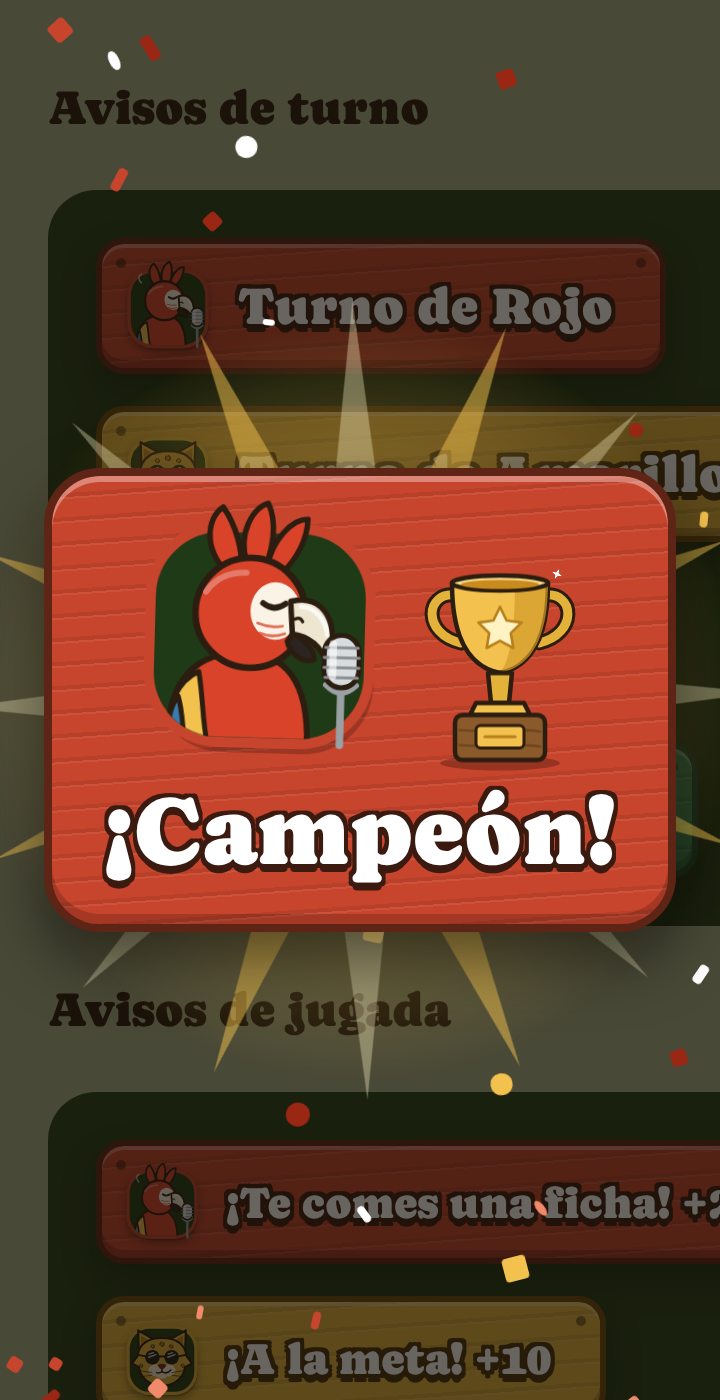
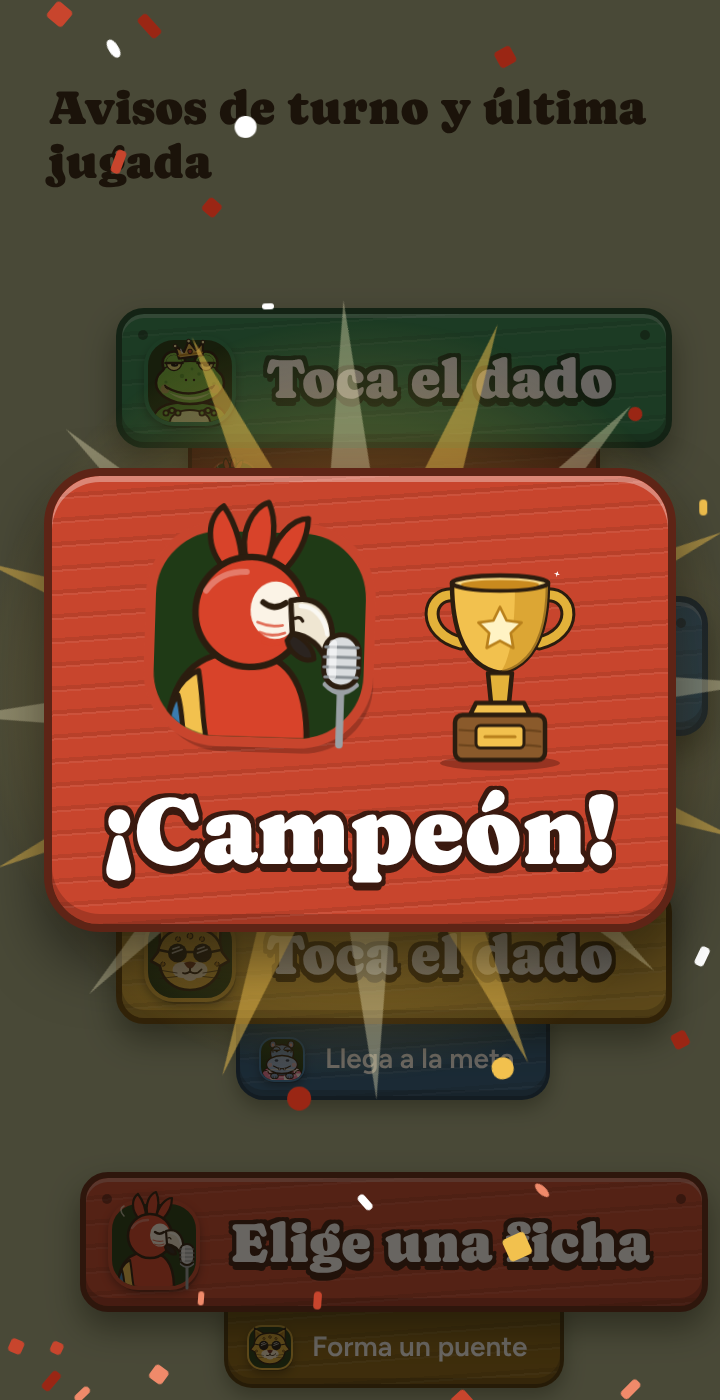
docs: redesign turn alerts with the last play tab

diff --git a/docs/design/avisos-y-campeon/ejemplo.html b/docs/design/avisos-y-campeon/ejemplo.html
@@ -3,36 +3,31 @@
 <head>
 <meta charset="utf-8">
 <meta name="viewport" content="width=device-width, initial-scale=1">
-<title>Alertas y campeón · Parchís de la jungla</title>
-<link rel="stylesheet" href="estilos.css">
+<title>Avisos y campeón · Parchís de la jungla</title>
+<link rel="stylesheet" href="alertas.css">
+<link rel="stylesheet" href="campeon.css">
 <script src="../mascotas/componentes/fichas-animales.js"></script>
 <script src="../mascotas/componentes/mascotas-animadas.js"></script>
 <script src="componentes/ganador-fx.js"></script>
 <script src="componentes/campeon.js"></script>
+<script src="alertas.js"></script>
 <style>
   body { margin: 0; min-height: 100vh; background: #a9b18c; font-family: system-ui, sans-serif; color: #2b1d0f; }
   main { max-width: 900px; margin: 0 auto; padding: 40px 24px; display: grid; gap: 28px; }
   h2 { font-family: "Caprasimo", serif; font-weight: 400; margin: 0; }
-  .lista { display: flex; flex-direction: column; align-items: flex-start; gap: 16px; padding: 24px; border-radius: 24px; background: #264018; }
+  .avisos { display: flex; flex-direction: column; align-items: center; gap: 36px; padding: 32px 16px; }
   .botones { display: flex; flex-wrap: wrap; gap: 10px; }
   button { font: 600 15px system-ui, sans-serif; padding: 10px 18px; border-radius: 999px; border: 0; background: #fff8ea; cursor: pointer; }
 </style>
 </head>
 <body>
 <main>
-  <h2>Avisos de turno</h2>
-  <div class="lista">
-    <div class="pj-alerta pj-rojo"><ficha-animal animal="loro" variant="b"></ficha-animal><span class="pj-alerta__texto">Turno de Rojo</span></div>
-    <div class="pj-alerta pj-amarillo"><ficha-animal animal="jaguar" variant="e"></ficha-animal><span class="pj-alerta__texto">Turno de Amarillo</span></div>
-    <div class="pj-alerta pj-azul"><ficha-animal animal="hipo" variant="g"></ficha-animal><span class="pj-alerta__texto">Turno de Azul</span></div>
-    <div class="pj-alerta pj-verde"><ficha-animal animal="rana" variant="a"></ficha-animal><span class="pj-alerta__texto">Turno de Verde</span></div>
-  </div>
-  <h2>Avisos de jugada</h2>
-  <div class="lista">
-    <div class="pj-alerta pj-rojo pj-alerta--pequena"><ficha-animal animal="loro" variant="b"></ficha-animal><span class="pj-alerta__texto">¡Te comes una ficha! +20</span></div>
-    <div class="pj-alerta pj-amarillo pj-alerta--pequena"><ficha-animal animal="jaguar" variant="e"></ficha-animal><span class="pj-alerta__texto">¡A la meta! +10</span></div>
-    <div class="pj-alerta pj-azul pj-alerta--pequena"><ficha-animal animal="hipo" variant="g"></ficha-animal><span class="pj-alerta__texto">¡Sacas un 6! Repites</span></div>
-    <div class="pj-alerta pj-verde pj-alerta--pequena"><ficha-animal animal="rana" variant="a"></ficha-animal><span class="pj-alerta__texto">Puente formado</span></div>
+  <h2>Avisos de turno y última jugada</h2>
+  <div class="avisos" id="avisos">
+    <div id="a0"></div>
+    <div id="a1"></div>
+    <div id="a2"></div>
+    <div id="a3"></div>
   </div>
   <h2>Pantalla de campeón</h2>
   <div class="botones">
@@ -43,6 +38,12 @@
   </div>
   <p>Pulsa en la capa oscura para cerrarla.</p>
 </main>
-<script>document.addEventListener('click', e => { if (e.target.classList && e.target.classList.contains('pj-campeon')) ocultarCampeon(); });</script>
+<script>
+pintarAviso(document.getElementById('a0'), { turno: 'verde', accion: 'Toca el dado', ultimo: 'rojo', ultimaJugada: 'Saca una ficha de casa' });
+pintarAviso(document.getElementById('a1'), { turno: 'azul', accion: 'Elige una ficha', ultimo: 'verde', ultimaJugada: 'Se come una ficha de Azul' });
+pintarAviso(document.getElementById('a2'), { turno: 'amarillo', accion: 'Toca el dado', ultimo: 'azul', ultimaJugada: 'Llega a la meta' });
+pintarAviso(document.getElementById('a3'), { turno: 'rojo', accion: 'Elige una ficha', ultimo: 'amarillo', ultimaJugada: 'Forma un puente' });
+document.addEventListener('click', e => { if (e.target.classList && e.target.classList.contains('pj-campeon')) ocultarCampeon(); });
+</script>
 </body>
 </html>

diff --git a/docs/design/avisos-y-campeon/alertas.css b/docs/design/avisos-y-campeon/alertas.css
@@ -1,0 +1,37 @@
+/* Aviso de turno + última jugada (14b) · Parchís de la jungla */
+@import url("https://fonts.googleapis.com/css2?family=Caprasimo&family=Figtree:wght@600&display=swap");
+.pj-aviso { display: inline-flex; flex-direction: column; align-items: center; }
+.pj-turno {
+  --c: #2e8b57; --borde: #17492d; --sombra: #12381f;
+  position: relative; z-index: 1; display: flex; align-items: center; gap: 12px;
+  padding: 6px 26px 6px 8px; border-radius: 14px;
+  background: var(--c) repeating-linear-gradient(176deg, rgba(0,0,0,0) 0 9px, rgba(0,0,0,.08) 9px 11px, rgba(255,255,255,.07) 11px 12px);
+  border: 3px solid var(--borde);
+  box-shadow: inset 0 2px 0 rgba(255,255,255,.3), inset 0 -4px 0 rgba(0,0,0,.2), 0 8px 16px rgba(10,20,4,.45);
+}
+.pj-turno::before, .pj-turno::after { content: ""; position: absolute; top: 8px; width: 5px; height: 5px; border-radius: 50%; background: rgba(0,0,0,.4); }
+.pj-turno::before { left: 8px; } .pj-turno::after { right: 8px; }
+.pj-turno ficha-animal { width: 52px; height: 52px; flex: none; filter: drop-shadow(0 2px 2px rgba(0,0,0,.35)); }
+.pj-turno__accion {
+  font-family: "Caprasimo", serif; font-size: 28px; line-height: 1.1; color: #fff; white-space: nowrap;
+  text-shadow: 2px 2px 0 var(--sombra), -2px 2px 0 var(--sombra), 2px -2px 0 var(--sombra), -2px -2px 0 var(--sombra), 2px 0 0 var(--sombra), -2px 0 0 var(--sombra), 0 2px 0 var(--sombra), 0 -2px 0 var(--sombra), 0 4px 0 var(--sombra);
+}
+.pj-jugada {
+  --p: #8e2f1f; --pb: #4a1a10;
+  display: inline-flex; align-items: center; gap: 8px; margin-top: -6px;
+  padding: 10px 16px 6px 8px; border-radius: 0 0 14px 14px;
+  background: var(--p) repeating-linear-gradient(176deg, rgba(0,0,0,0) 0 9px, rgba(0,0,0,.08) 9px 11px, rgba(255,255,255,.07) 11px 12px);
+  border: 2px solid var(--pb); border-top: 0;
+  box-shadow: inset 0 -3px 0 rgba(0,0,0,.18), 0 4px 10px rgba(10,20,4,.35);
+  font-family: "Figtree", system-ui, sans-serif; font-weight: 600; font-size: 14px; color: #fff; white-space: nowrap;
+}
+.pj-jugada ficha-animal { width: 26px; height: 26px; flex: none; filter: drop-shadow(0 2px 2px rgba(0,0,0,.35)); }
+/* Colores: .pj-turno.pj-<equipo> (turno actual) · .pj-jugada.pj-<equipo> (quien hizo la última jugada) */
+.pj-turno.pj-verde    { --c: #2e8b57; --borde: #17492d; --sombra: #12381f; }
+.pj-turno.pj-rojo     { --c: #c8452d; --borde: #5e2416; --sombra: #3b1a10; }
+.pj-turno.pj-azul     { --c: #3a7cb0; --borde: #1f4566; --sombra: #173450; }
+.pj-turno.pj-amarillo { --c: #e3b23a; --borde: #6b4a0c; --sombra: #4a320a; }
+.pj-jugada.pj-verde    { --p: #1f6440; --pb: #0f3a24; }
+.pj-jugada.pj-rojo     { --p: #8e2f1f; --pb: #4a1a10; }
+.pj-jugada.pj-azul     { --p: #2a5d86; --pb: #163552; }
+.pj-jugada.pj-amarillo { --p: #8a6514; --pb: #4a3408; }

diff --git a/docs/design/avisos-y-campeon/campeon.css b/docs/design/avisos-y-campeon/campeon.css
@@ -1,6 +1,6 @@
-/* Alertas y pantalla de campeón · Parchís de la jungla */
+/* Pantalla de campeón · Parchís de la jungla */
 @import url("https://fonts.googleapis.com/css2?family=Caprasimo&display=swap");
-.pj-alerta, .pj-campeon__tablon {
+.pj-campeon__tablon {
   --c: #e3b23a; --borde: #6b4a0c; --sombra: #4a320a;
   position: relative; display: inline-flex; align-items: center; gap: 12px;
   padding: 8px 24px 8px 10px; border-radius: 14px;
@@ -8,20 +8,14 @@
   border: 3px solid var(--borde);
   box-shadow: inset 0 2px 0 rgba(255,255,255,.3), inset 0 -4px 0 rgba(0,0,0,.2), 0 8px 16px rgba(10,20,4,.45);
 }
-.pj-alerta::before, .pj-alerta::after { content: ""; position: absolute; top: 7px; width: 5px; height: 5px; border-radius: 50%; background: rgba(0,0,0,.4); }
-.pj-alerta::before { left: 7px; } .pj-alerta::after { right: 7px; }
-.pj-alerta ficha-animal { width: 46px; height: 46px; flex: none; filter: drop-shadow(0 2px 2px rgba(0,0,0,.35)); }
-.pj-alerta__texto, .pj-campeon__titulo {
+.pj-campeon__titulo {
   font-family: "Caprasimo", serif; color: #fff; white-space: nowrap;
   text-shadow: 2px 2px 0 var(--sombra), -2px 2px 0 var(--sombra), 2px -2px 0 var(--sombra), -2px -2px 0 var(--sombra), 2px 0 0 var(--sombra), -2px 0 0 var(--sombra), 0 2px 0 var(--sombra), 0 -2px 0 var(--sombra), 0 4px 0 var(--sombra);
 }
-.pj-alerta__texto { font-size: 26px; }
-.pj-alerta--pequena .pj-alerta__texto { font-size: 22px; }
-.pj-alerta--pequena ficha-animal { width: 40px; height: 40px; }
-.pj-amarillo { --c: #e3b23a; --borde: #6b4a0c; --sombra: #4a320a; }
-.pj-rojo     { --c: #c8452d; --borde: #5e2416; --sombra: #3b1a10; }
-.pj-azul     { --c: #3a7cb0; --borde: #1f4566; --sombra: #173450; }
-.pj-verde    { --c: #2e8b57; --borde: #17492d; --sombra: #12381f; }
+.pj-campeon__tablon.pj-amarillo { --c: #e3b23a; --borde: #6b4a0c; --sombra: #4a320a; }
+.pj-campeon__tablon.pj-rojo     { --c: #c8452d; --borde: #5e2416; --sombra: #3b1a10; }
+.pj-campeon__tablon.pj-azul     { --c: #3a7cb0; --borde: #1f4566; --sombra: #173450; }
+.pj-campeon__tablon.pj-verde    { --c: #2e8b57; --borde: #17492d; --sombra: #12381f; }
 
 /* Pantalla de campeón */
 .pj-campeon { position: fixed; inset: 0; z-index: 100; display: grid; place-items: center; background: rgba(18,14,8,.64); }

diff --git a/docs/design/avisos-y-campeon/alertas.js b/docs/design/avisos-y-campeon/alertas.js
@@ -1,0 +1,10 @@
+/* pintarAviso(contenedor, { turno, accion, ultimo?, ultimaJugada? }) */
+(function () {
+  const M = { verde: ['rana', 'a'], rojo: ['loro', 'b'], azul: ['hipo', 'g'], amarillo: ['jaguar', 'e'] };
+  const f = (eq) => `<ficha-animal animal="${M[eq][0]}" variant="${M[eq][1]}"></ficha-animal>`;
+  window.pintarAviso = function (el, o) {
+    let h = `<div class="pj-aviso" role="status" aria-live="polite"><div class="pj-turno pj-${o.turno}">${f(o.turno)}<span class="pj-turno__accion">${o.accion}</span></div>`;
+    if (o.ultimo && o.ultimaJugada) h += `<div class="pj-jugada pj-${o.ultimo}">${f(o.ultimo)}<span>${o.ultimaJugada}</span></div>`;
+    el.innerHTML = h + '</div>';
+  };
+})();

diff --git a/docs/design/avisos-y-campeon/README.md b/docs/design/avisos-y-campeon/README.md
@@ -1,26 +1,38 @@
 # Avisos y pantalla de campeón
 
-Carteles de madera pintada del color de cada equipo, con su mascota, y la pantalla del equipo que gana. Exportado de Claude Design. Sustituye al cartel anterior, que solo tenía un círculo de color.
+Aviso de turno con la última jugada colgada debajo, y pantalla del equipo que gana. Exportado de Claude Design.
 
 - `ejemplo.html`: los avisos y la pantalla de campeón funcionando. Usa los componentes de [`../mascotas/`](../mascotas/), así que se abre desde esta carpeta, dentro de `docs/design/`.
-- `estilos.css`: el tablón pintado de los avisos y del campeón, y los colores de cada equipo.
+- `alertas.css` y `alertas.js`: el aviso de turno y la última jugada; `pintarAviso(contenedor, { turno, accion, ultimo?, ultimaJugada? })`.
+- `campeon.css`: el tablón y la capa de la pantalla de campeón.
 - `componentes/ganador-fx.js`: trofeo con brillos, confeti y rayos de sol (`<ganador-trofeo>`, `<ganador-confeti>`, `<ganador-rayos>`).
 - `componentes/campeon.js`: `mostrarCampeon(equipo, texto?)` y `ocultarCampeon()`.
-- `capturas/`: avisos de turno, avisos de jugada y pantalla de campeón en escritorio y en móvil.
+- `capturas/`: los avisos, y la pantalla de campeón en escritorio y en móvil.
 
 ## Avisos
 
-Tablón del color del equipo con la ficha de su mascota y el texto en Caprasimo, blanco con contorno oscuro. Hay dos niveles, como define SPEC 006 al separar estado y eventos:
+Dos niveles, como define SPEC 006 al separar estado y eventos. **El cartel dice qué hacer; la pestaña, qué pasó y quién lo hizo.**
 
-- **De turno, primer nivel:** el cartel de turno, con el **estado** actual: «Turno de Rojo», el valor del dado y la instrucción. Un premio pendiente es estado, así que «Usa tu +20» va aquí.
-- **De jugada, segundo nivel** (`pj-alerta--pequena`): los **eventos** de la última acción, por ejemplo «¡Te comes una ficha! +20», «¡A la meta! +10» o «¡Sacas un 6! Repites». Es el aspecto de la línea de última jugada: van debajo del cartel de turno y nunca lo sustituyen.
+- **Cartel de turno, primer nivel:** tablón del color del equipo en turno, con su mascota a la izquierda y solo la acción, en Caprasimo: «Toca el dado», «Elige una ficha». Sin «Turno de…»: el turno se reconoce por el color y la mascota.
+- **Última jugada, segundo nivel:** pestaña más pequeña colgada debajo del cartel, en el color oscurecido de quien hizo la jugada y con su mascota, en Figtree: «Saca una ficha de casa», «Llega a la meta». No nombra a quien actúa, porque lo dice su mascota; sí al equipo afectado («Se come una ficha de Azul»).
 
-En el diseño, los avisos de jugada usan el mismo tablón que el de turno, solo más pequeño. Al implementarlos, el spec debe hacer que se distingan claramente como segundo nivel.
+| Equipo | Mascota | Cartel | Pestaña |
+|---|---|---|---|
+| Amarillo | Jaguar `e` | `#e3b23a` | `#8a6514` |
+| Rojo | Loro `b` | `#c8452d` | `#8e2f1f` |
+| Azul | Hipopótamo `g` | `#3a7cb0` | `#2a5d86` |
+| Verde | Rana `a` | `#2e8b57` | `#1f6440` |
 
-«Puente formado» no tiene evento en el motor: el motor no avisa al formar barrera, y la aplicación no puede deducirlo por su cuenta (RNF-005 de SPEC 006). Queda como posible evento nuevo para un spec del motor.
+El texto blanco de la pestaña tiene un contraste de entre 5,3:1 (amarillo) y 8,2:1 (rojo).
+
+## Pendiente para el spec
+
+- **Texto para el lector de pantalla:** sin «Turno de…» visible, el turno sigue existiendo como texto oculto.
+- **Estados sin diseño:** el valor del dado al elegir ficha, el premio pendiente («Usa tu +20»), la tirada inicial y el ganador.
+- **«Forma un puente»** no tiene evento en el motor: el motor no avisa al formar barrera, y la aplicación no puede deducirlo por su cuenta (RNF-005 de SPEC 006). Queda como posible evento nuevo para un spec del motor.
 
 ## Pantalla de campeón
 
-Capa oscura translúcida sobre la partida. En el centro, el tablón del color del equipo con su mascota animada flotando, el trofeo y «¡Campeón!». Detrás giran rayos de sol y cae confeti con la paleta del equipo. Por debajo de 520 px, todo se reduce.
+Capa oscura translúcida sobre la partida. En el centro, el tablón del color del equipo con su mascota animada flotando, el trofeo y «¡Campeón!». Detrás giran rayos de sol y cae confeti con la paleta del equipo. Por debajo de 520 px, todo se reduce. No tiene botón de nueva partida, que hará falta en el spec de final de partida.
 
-La aplicación lo reconstruye con la paleta del tablero y sus propios componentes. Los textos de los avisos salen de los eventos del motor, y las animaciones respetan `prefers-reduced-motion`.
+La aplicación lo reconstruye con la paleta del tablero y sus propios componentes. Los textos salen del estado y los eventos del motor, las tipografías se incluyen en el proyecto en lugar de cargarlas de Google Fonts, y las animaciones respetan `prefers-reduced-motion`.

diff --git a/docs/design/README.md b/docs/design/README.md
@@ -9,4 +9,4 @@ Referencias visuales exportadas de Claude Design para los specs de interfaz. No 
 | [`dado-arbol/`](dado-arbol/) | Las seis caras del dado | SPEC 006 |
 | [`fondo-jungla/`](fondo-jungla/) | Fondo de la página, en loseta repetible; versión suavizada | SPEC 006; la versión suavizada, pendiente |
 | [`mascotas/`](mascotas/) | Mascotas de los equipos: fichas, casas y animaciones | Pendiente |
-| [`avisos-y-campeon/`](avisos-y-campeon/) | Avisos con la mascota del equipo y pantalla de campeón | Pendiente |
+| [`avisos-y-campeon/`](avisos-y-campeon/) | Aviso de turno con la última jugada debajo, con las mascotas, y pantalla de campeón | Pendiente |
